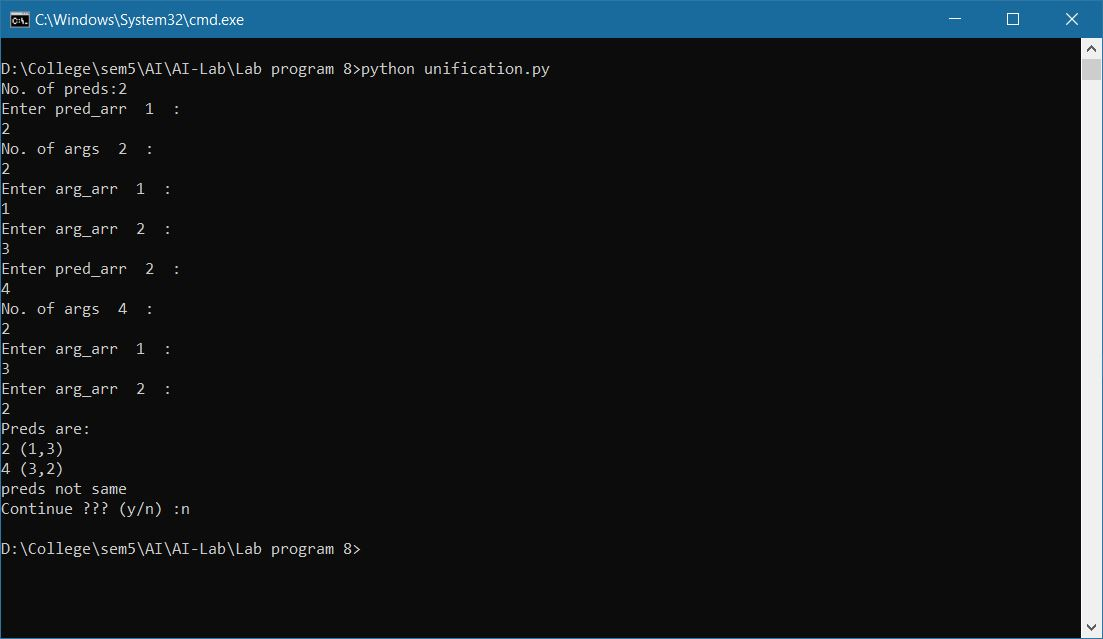
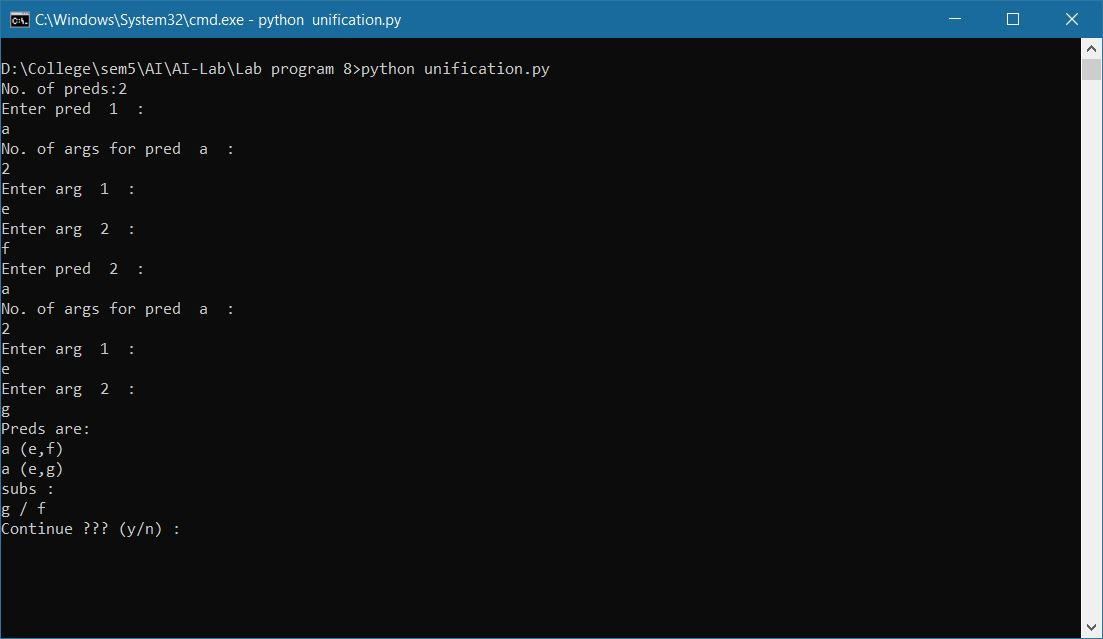
edit

diff --git a/Lab program 8/unification.py b/Lab program 8/unification.py
@@ -62,13 +62,13 @@ def main():
     while(ch == 'y'):
         preds_x = int(input("No. of preds:"))
         for i in range(preds_x):
-            print("Enter pred_arr ", (i+1), " :")
+            print("Enter pred ", (i+1), " :")
             pred_arr[i] = input()
-            print("No. of args ", pred_arr[i], " :")
+            print("No. of args for pred ", pred_arr[i], " :")
             arg_y[i] = int(input())
 
             for j in range(arg_y[i]):
-                print("Enter arg_arr ", j+1, " :")
+                print("Enter arg ", j+1, " :")
                 arg_arr[i][j] = input()
         output()
         check_cond()
